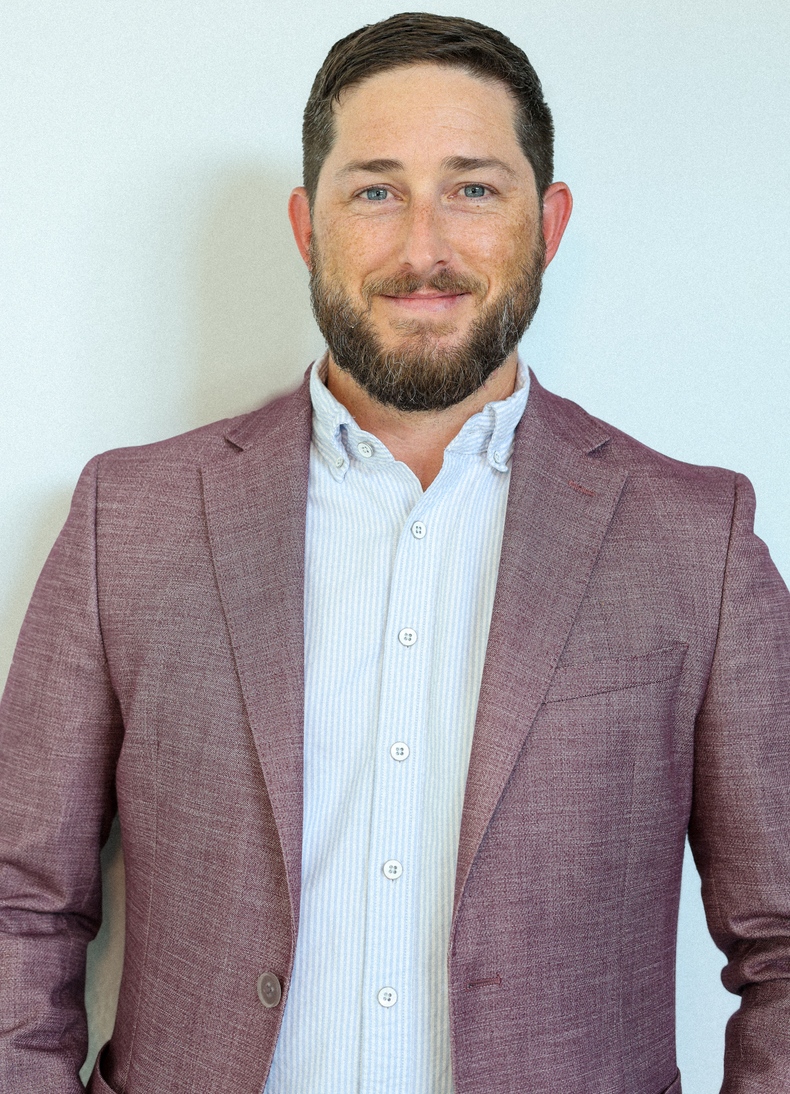
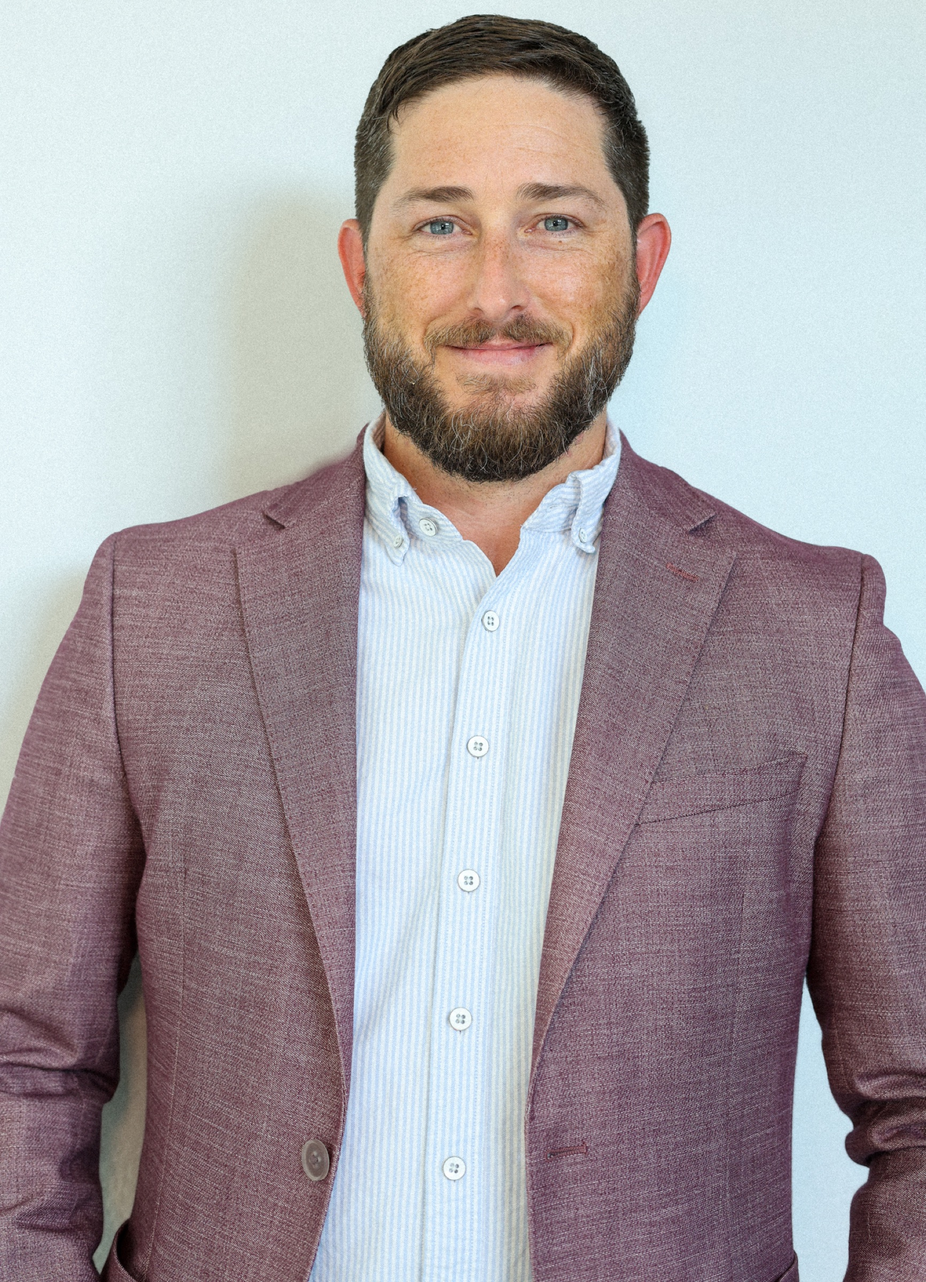
Replace gallery with 41 Austin street photos, 3-col grid + lightbox nav
Web-optimized (max 2400px, ~1-2MB each). Removed kids/dog photos.
3-column grid with lazy loading, lightbox prev/next navigation.

diff --git a/my-react-website/src/components/Photos.js b/my-react-website/src/components/Photos.js
@@ -2,32 +2,70 @@ import { motion, useInView, AnimatePresence } from 'motion/react';
 import { useRef, useState } from 'react';
 
 const photos = [
-  { src: '/photos/photo5.jpg', caption: 'Empty Seats', location: 'Austin, TX' },
-  { src: '/photos/photo3.jpg', caption: 'Game Day', location: 'Austin, TX' },
-  { src: '/photos/photo1.jpg', caption: 'First to the Finish', location: 'Austin, TX' },
-  { src: '/photos/photo2.jpg', caption: 'Full Sprint', location: 'Austin, TX' },
+  { src: '/photos/3R2A5336.jpg', caption: 'Empty Seats' },
+  { src: '/photos/3R2A5322.jpg', caption: 'Seven Stories Up' },
+  { src: '/photos/3R2A5320.jpg', caption: 'Sidewalk' },
+  { src: '/photos/3R2A5334.jpg', caption: 'Passage' },
+  { src: '/photos/3R2A5335.jpg', caption: 'After Hours' },
+  { src: '/photos/3R2A5331.jpg', caption: 'Corner Light' },
+  { src: '/photos/3R2A5330.jpg', caption: 'Still Life' },
+  { src: '/photos/3R2A5332.jpg', caption: 'Urban Frame' },
+  { src: '/photos/3R2A5327.jpg', caption: 'Mid-Block' },
+  { src: '/photos/3R2A5329.jpg', caption: 'The Walk' },
+  { src: '/photos/3R2A5338.jpg', caption: 'Contrast' },
+  { src: '/photos/3R2A5340.jpg', caption: 'Punch Bowl Social' },
+  { src: '/photos/3R2A5341.jpg', caption: 'Night Scene' },
+  { src: '/photos/3R2A5342.jpg', caption: 'Neon & Dark' },
+  { src: '/photos/3R2A5344.jpg', caption: 'Glass & Steel' },
+  { src: '/photos/3R2A5345.jpg', caption: 'Open Sign' },
+  { src: '/photos/3R2A5346.jpg', caption: 'Backlit' },
+  { src: '/photos/3R2A5347.jpg', caption: 'City Geometry' },
+  { src: '/photos/3R2A5349.jpg', caption: 'Long Shadow' },
+  { src: '/photos/3R2A5351.jpg', caption: 'Quiet Street' },
+  { src: '/photos/3R2A5352.jpg', caption: 'Downtown Drift' },
+  { src: '/photos/3R2A5354.jpg', caption: 'The Capitol' },
+  { src: '/photos/3R2A5356.jpg', caption: 'Congress Ave' },
+  { src: '/photos/3R2A5357.jpg', caption: 'Texas Capitol' },
+  { src: '/photos/3R2A5361.jpg', caption: 'Crosswalk' },
+  { src: '/photos/3R2A5362.jpg', caption: 'Late Afternoon' },
+  { src: '/photos/3R2A5363.jpg', caption: 'The Grid' },
+  { src: '/photos/3R2A5365.jpg', caption: 'Street Level' },
+  { src: '/photos/3R2A5370.jpg', caption: 'Entrance' },
+  { src: '/photos/3R2A5372.jpg', caption: 'Indeed Tower' },
+  { src: '/photos/3R2A5375.jpg', caption: 'Visitor Parking' },
+  { src: '/photos/3R2A5378.jpg', caption: 'Looking Up' },
+  { src: '/photos/3R2A5381.jpg', caption: 'Storefront' },
+  { src: '/photos/3R2A5382.jpg', caption: 'Industrial' },
+  { src: '/photos/3R2A5385.jpg', caption: 'Structure' },
+  { src: '/photos/3R2A5386.jpg', caption: 'Depth' },
+  { src: '/photos/3R2A5387.jpg', caption: 'Compression' },
+  { src: '/photos/3R2A5392.jpg', caption: 'Wide Open' },
+  { src: '/photos/3R2A5399.jpg', caption: 'Evening Light' },
+  { src: '/photos/3R2A5403.jpg', caption: 'The Corner' },
+  { src: '/photos/3R2A5406.jpg', caption: 'End of Day' },
 ];
 
 function PhotoCard({ photo, index, onClick }) {
   const ref = useRef(null);
-  const inView = useInView(ref, { once: true, margin: '-60px' });
+  const inView = useInView(ref, { once: true, margin: '-40px' });
 
   return (
     <motion.div
       ref={ref}
       className="photo-card"
-      initial={{ opacity: 0, y: 40 }}
+      initial={{ opacity: 0, y: 30 }}
       animate={inView ? { opacity: 1, y: 0 } : {}}
-      transition={{ duration: 0.7, delay: index * 0.1, ease: [0.22, 1, 0.36, 1] }}
-      whileHover={{ y: -6, transition: { duration: 0.25 } }}
-      onClick={() => onClick(photo)}
+      transition={{ duration: 0.6, delay: (index % 6) * 0.07, ease: [0.22, 1, 0.36, 1] }}
+      whileHover={{ y: -5, transition: { duration: 0.2 } }}
+      onClick={() => onClick(index)}
     >
       <div className="photo-card-img-wrap">
         <motion.img
           src={photo.src}
           alt={photo.caption}
           className="photo-card-img"
-          whileHover={{ scale: 1.04, transition: { duration: 0.4 } }}
+          loading="lazy"
+          whileHover={{ scale: 1.05, transition: { duration: 0.4 } }}
         />
         <div className="photo-card-overlay">
           <span className="photo-card-expand">↗ View</span>
@@ -35,13 +73,14 @@ function PhotoCard({ photo, index, onClick }) {
       </div>
       <div className="photo-card-meta">
         <span className="photo-card-caption">{photo.caption}</span>
-        <span className="photo-card-location">{photo.location}</span>
+        <span className="photo-card-location">Austin, TX</span>
       </div>
     </motion.div>
   );
 }
 
-function Lightbox({ photo, onClose }) {
+function Lightbox({ index, onClose, onPrev, onNext }) {
+  const photo = index !== null ? photos[index] : null;
   return (
     <AnimatePresence>
       {photo && (
@@ -50,23 +89,36 @@ function Lightbox({ photo, onClose }) {
           initial={{ opacity: 0 }}
           animate={{ opacity: 1 }}
           exit={{ opacity: 0 }}
-          transition={{ duration: 0.3 }}
+          transition={{ duration: 0.25 }}
           onClick={onClose}
         >
           <motion.div
             className="lightbox-inner"
-            initial={{ scale: 0.88, opacity: 0 }}
+            initial={{ scale: 0.9, opacity: 0 }}
             animate={{ scale: 1, opacity: 1 }}
-            exit={{ scale: 0.92, opacity: 0 }}
-            transition={{ duration: 0.35, ease: [0.22, 1, 0.36, 1] }}
+            exit={{ scale: 0.93, opacity: 0 }}
+            transition={{ duration: 0.3, ease: [0.22, 1, 0.36, 1] }}
             onClick={e => e.stopPropagation()}
           >
-            <img src={photo.src} alt={photo.caption} className="lightbox-img" />
+            <AnimatePresence mode="wait">
+              <motion.img
+                key={photo.src}
+                src={photo.src}
+                alt={photo.caption}
+                className="lightbox-img"
+                initial={{ opacity: 0, x: 20 }}
+                animate={{ opacity: 1, x: 0 }}
+                exit={{ opacity: 0, x: -20 }}
+                transition={{ duration: 0.2 }}
+              />
+            </AnimatePresence>
             <div className="lightbox-caption">
               <span>{photo.caption}</span>
-              <span className="lightbox-location">{photo.location}</span>
+              <span className="lightbox-location">Austin, TX · {index + 1} / {photos.length}</span>
             </div>
             <button className="lightbox-close" onClick={onClose}>✕</button>
+            <button className="lightbox-prev" onClick={onPrev}>←</button>
+            <button className="lightbox-next" onClick={onNext}>→</button>
           </motion.div>
         </motion.div>
       )}
@@ -75,7 +127,10 @@ function Lightbox({ photo, onClose }) {
 }
 
 export default function Photos() {
-  const [selected, setSelected] = useState(null);
+  const [selectedIndex, setSelectedIndex] = useState(null);
+
+  const handlePrev = () => setSelectedIndex(i => (i - 1 + photos.length) % photos.length);
+  const handleNext = () => setSelectedIndex(i => (i + 1) % photos.length);
 
   return (
     <section id="photos" className="photos-section">
@@ -110,12 +165,17 @@ export default function Photos() {
 
         <div className="photo-grid">
           {photos.map((p, i) => (
-            <PhotoCard key={p.src} photo={p} index={i} onClick={setSelected} />
+            <PhotoCard key={p.src} photo={p} index={i} onClick={setSelectedIndex} />
           ))}
         </div>
       </div>
 
-      <Lightbox photo={selected} onClose={() => setSelected(null)} />
+      <Lightbox
+        index={selectedIndex}
+        onClose={() => setSelectedIndex(null)}
+        onPrev={handlePrev}
+        onNext={handleNext}
+      />
     </section>
   );
 }

diff --git a/my-react-website/src/App.css b/my-react-website/src/App.css
@@ -334,8 +334,8 @@ a { color: inherit; text-decoration: none; }
 
 .photo-grid {
   display: grid;
-  grid-template-columns: repeat(2, 1fr);
-  gap: 1.5rem;
+  grid-template-columns: repeat(3, 1fr);
+  gap: 1.25rem;
 }
 
 .photo-card {
@@ -470,6 +470,29 @@ a { color: inherit; text-decoration: none; }
   transition: background 0.2s;
 }
 .lightbox-close:hover { background: var(--accent); color: #000; }
+
+.lightbox-prev,
+.lightbox-next {
+  position: absolute;
+  top: 50%;
+  transform: translateY(-50%);
+  background: rgba(255,255,255,0.08);
+  border: 1px solid var(--border);
+  color: var(--text);
+  width: 44px;
+  height: 44px;
+  border-radius: 50%;
+  cursor: pointer;
+  font-size: 1.1rem;
+  display: flex;
+  align-items: center;
+  justify-content: center;
+  transition: background 0.2s;
+}
+.lightbox-prev { left: -56px; }
+.lightbox-next { right: -56px; }
+.lightbox-prev:hover,
+.lightbox-next:hover { background: var(--accent); color: #000; border-color: var(--accent); }
 
 /* ─── Experience ───────────────────────────────────────────────── */
 .experience {
@@ -688,7 +711,9 @@ a { color: inherit; text-decoration: none; }
     grid-template-columns: 1fr 1fr;
   }
 
-  .photo-grid { grid-template-columns: 1fr; }
+  .photo-grid { grid-template-columns: repeat(2, 1fr); }
+  .lightbox-prev { left: -48px; }
+  .lightbox-next { right: -48px; }
 
   .exp-timeline {
     grid-template-columns: 2px 1fr;
